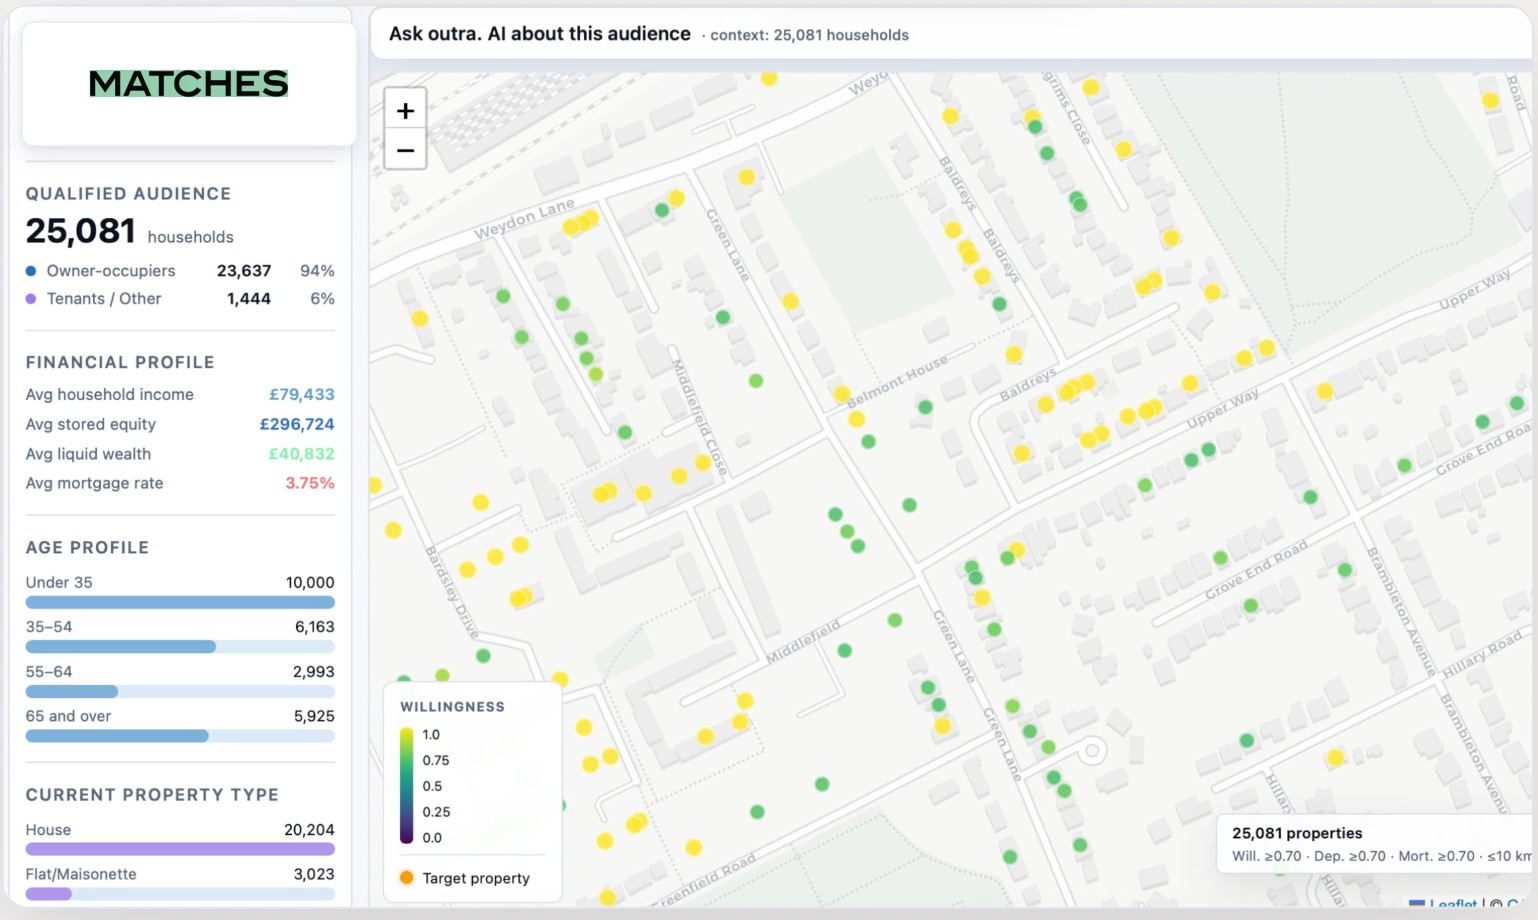
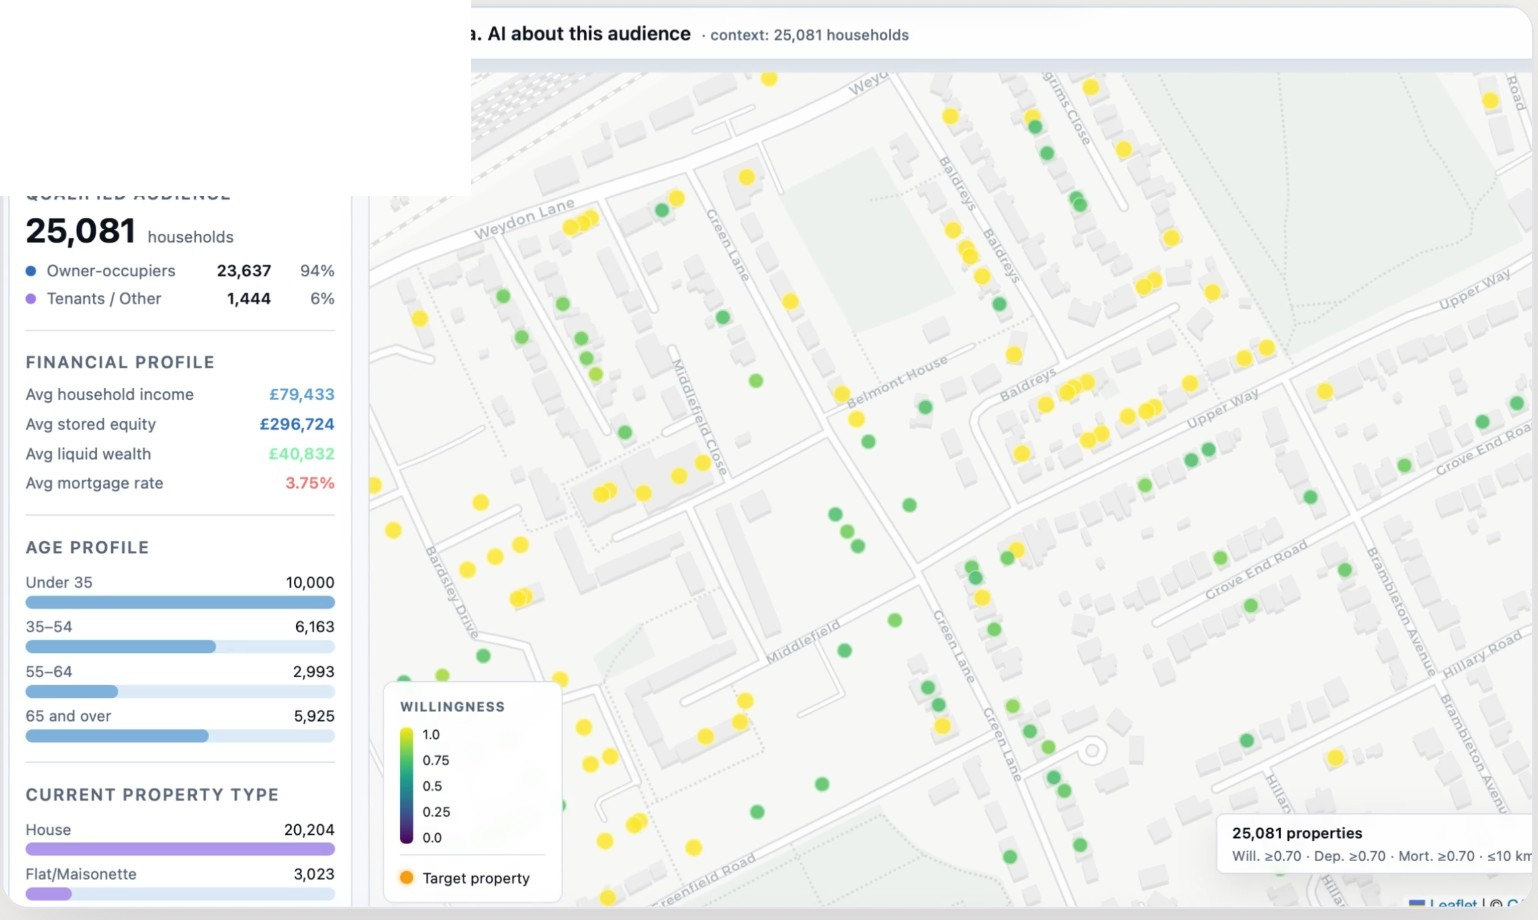
Mobile poster: clear baked-in MATCHES tile from image so overlay drops in cleanly like desktop (no masking)

Changed region(s): [[0.0, 0.0, 0.3121, 0.213], [0.0624, 0.0609, 0.1873, 0.1217]]

diff --git a/builder-template.html b/builder-template.html
@@ -5037,25 +5037,25 @@ html { background: var(--surface); }
     object-fit: contain !important;
     object-position: center !important;
   }
-  /* MEASURED from the actual poster image (1538×920) by sampling
-     white-card edges directly in PIL: the baked-in MATCHES card spans
-     y:10-149px (top:1.1%, height:15.1%) and x:20-355px (left:1.3%,
-     width:21.8%). Overlay sized with a small margin each side to
-     fully cover the card's anti-aliased edges so no MATCHES text
-     pokes out the right or bottom. Same border+shadow as desktop. */
+  /* Identical to the desktop floating-card lockup: 22% × 14% at
+     1.6%/1.2% inset with the same border + soft shadow. The mobile
+     poster image has been pre-cleared of any baked-in brand (no
+     MATCHES tile), so this overlay is the only top-left tile rendered
+     — no masking needed. Per-brand logo (Emma, Bacardi, etc.) drops
+     in via object-fit:contain exactly like desktop. */
   .propensity-video-logo,
   .propensity-video-logo-card {
     display: flex !important;
     position: absolute !important;
-    top: 0.7% !important;
-    left: 0.8% !important;
-    width: 23.5% !important;
-    height: 16.5% !important;
+    top: 1.6% !important;
+    left: 1.2% !important;
+    width: 22% !important;
+    height: 14% !important;
     border-radius: 6px !important;
     background: #ffffff !important;
     border: 1px solid rgba(20, 24, 60, 0.08) !important;
     box-shadow: 0 4px 12px rgba(10, 19, 91, 0.10), 0 1px 2px rgba(10, 19, 91, 0.06) !important;
-    padding: 1% 3% !important;
+    padding: 2% 4% !important;
     z-index: 3 !important;
     align-items: center !important;
     justify-content: center !important;